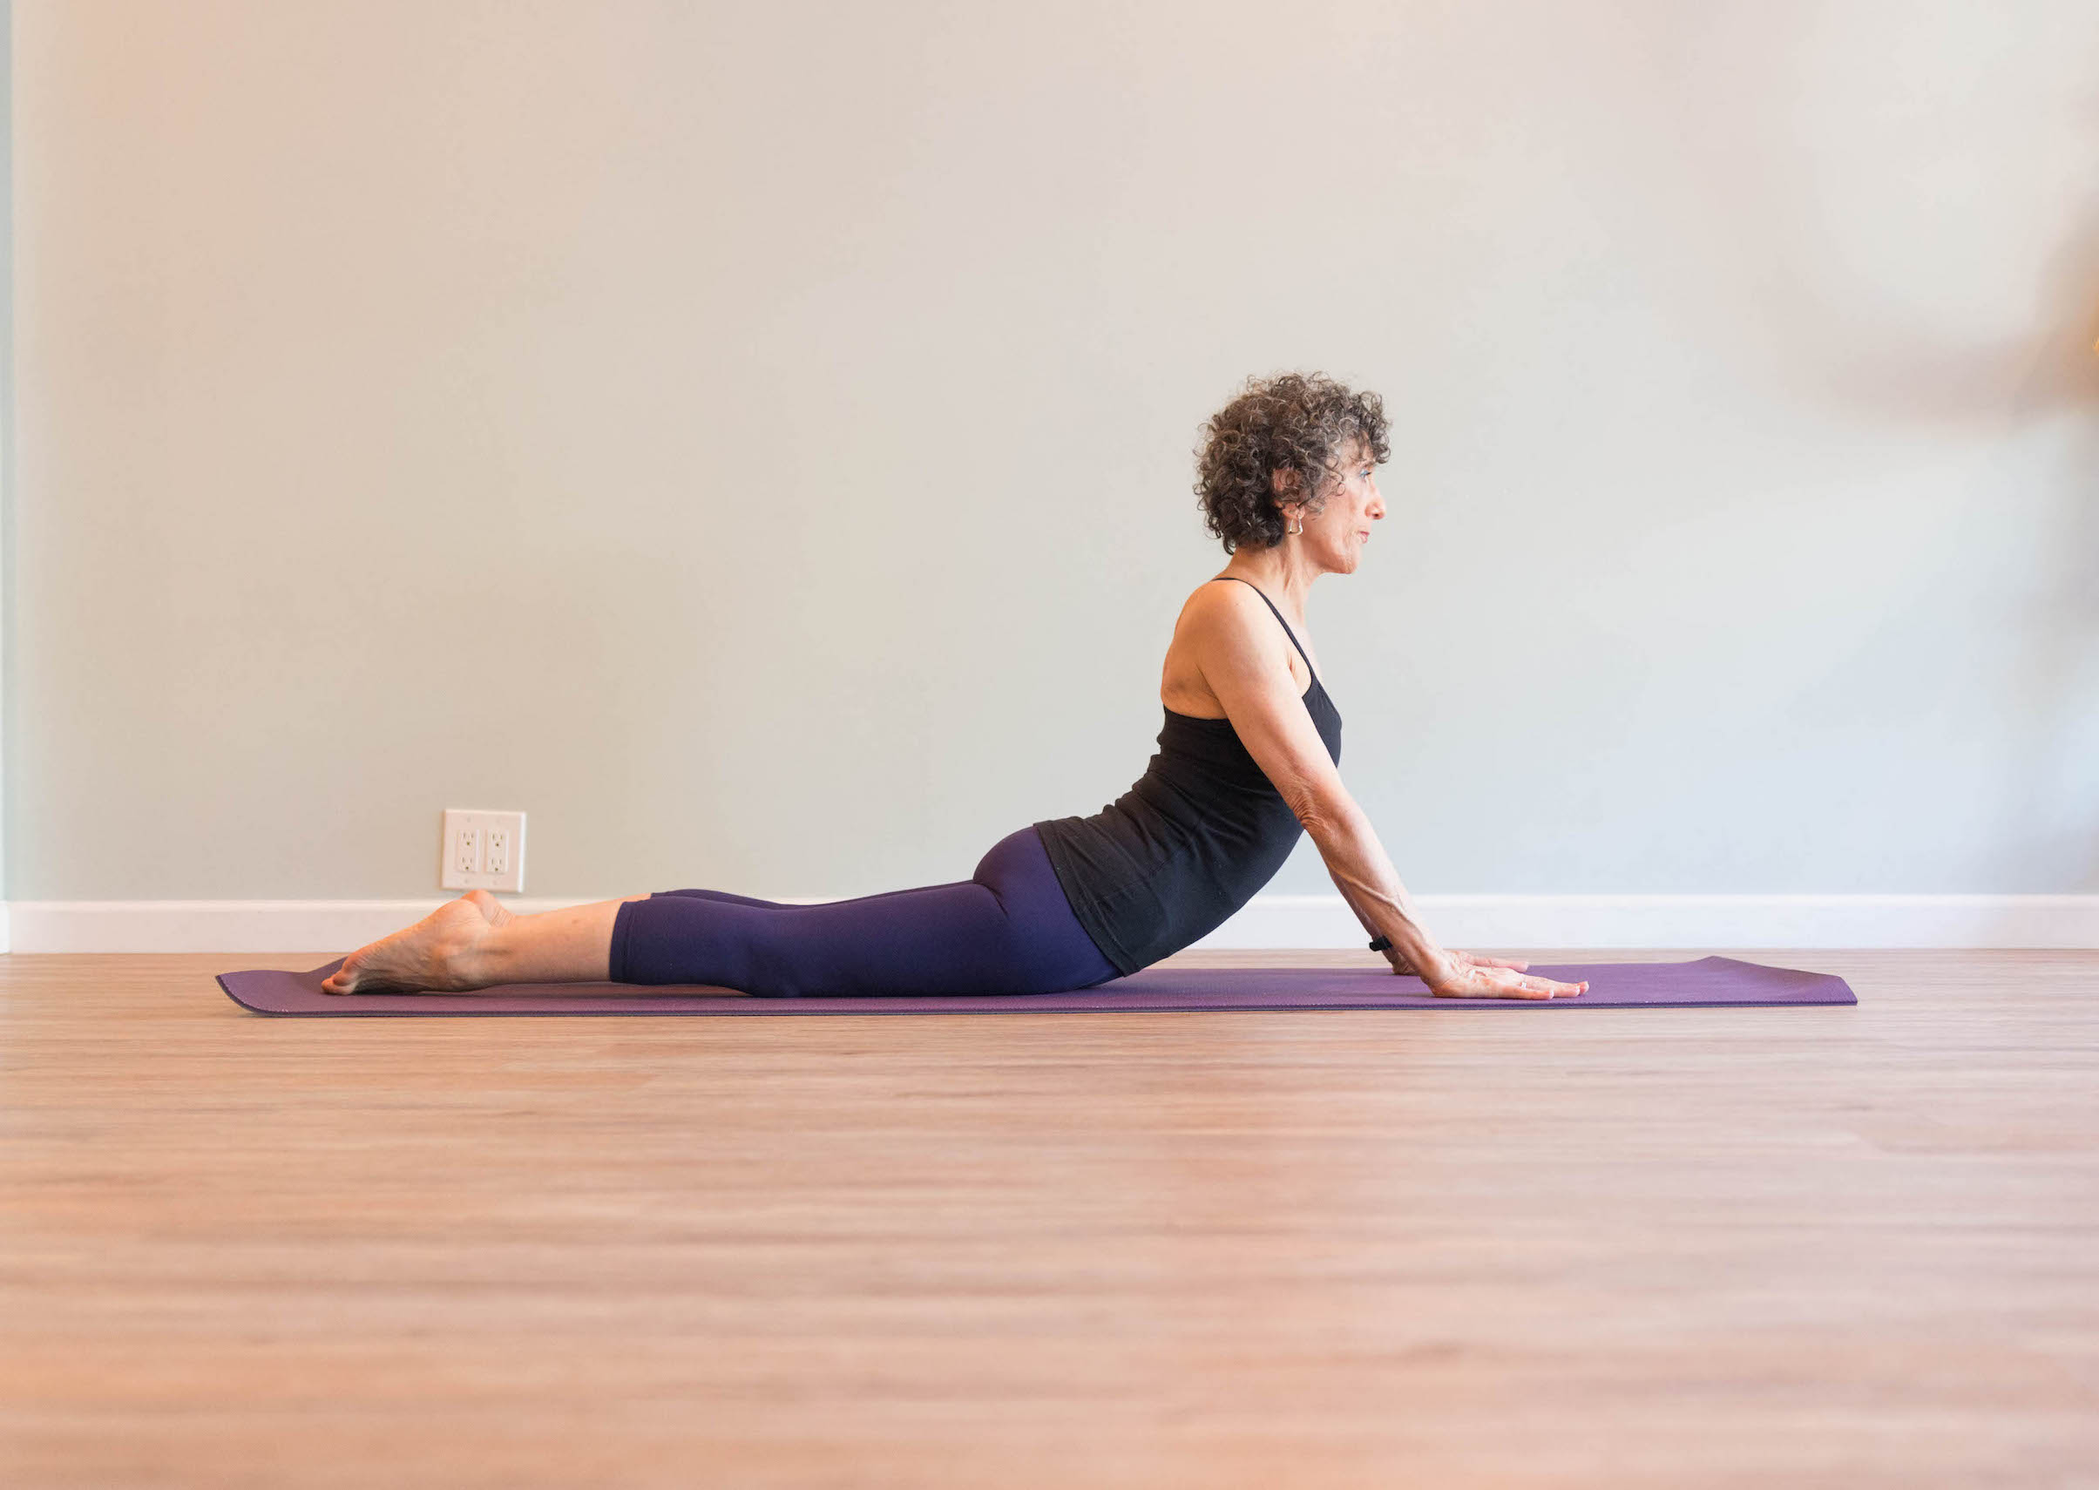
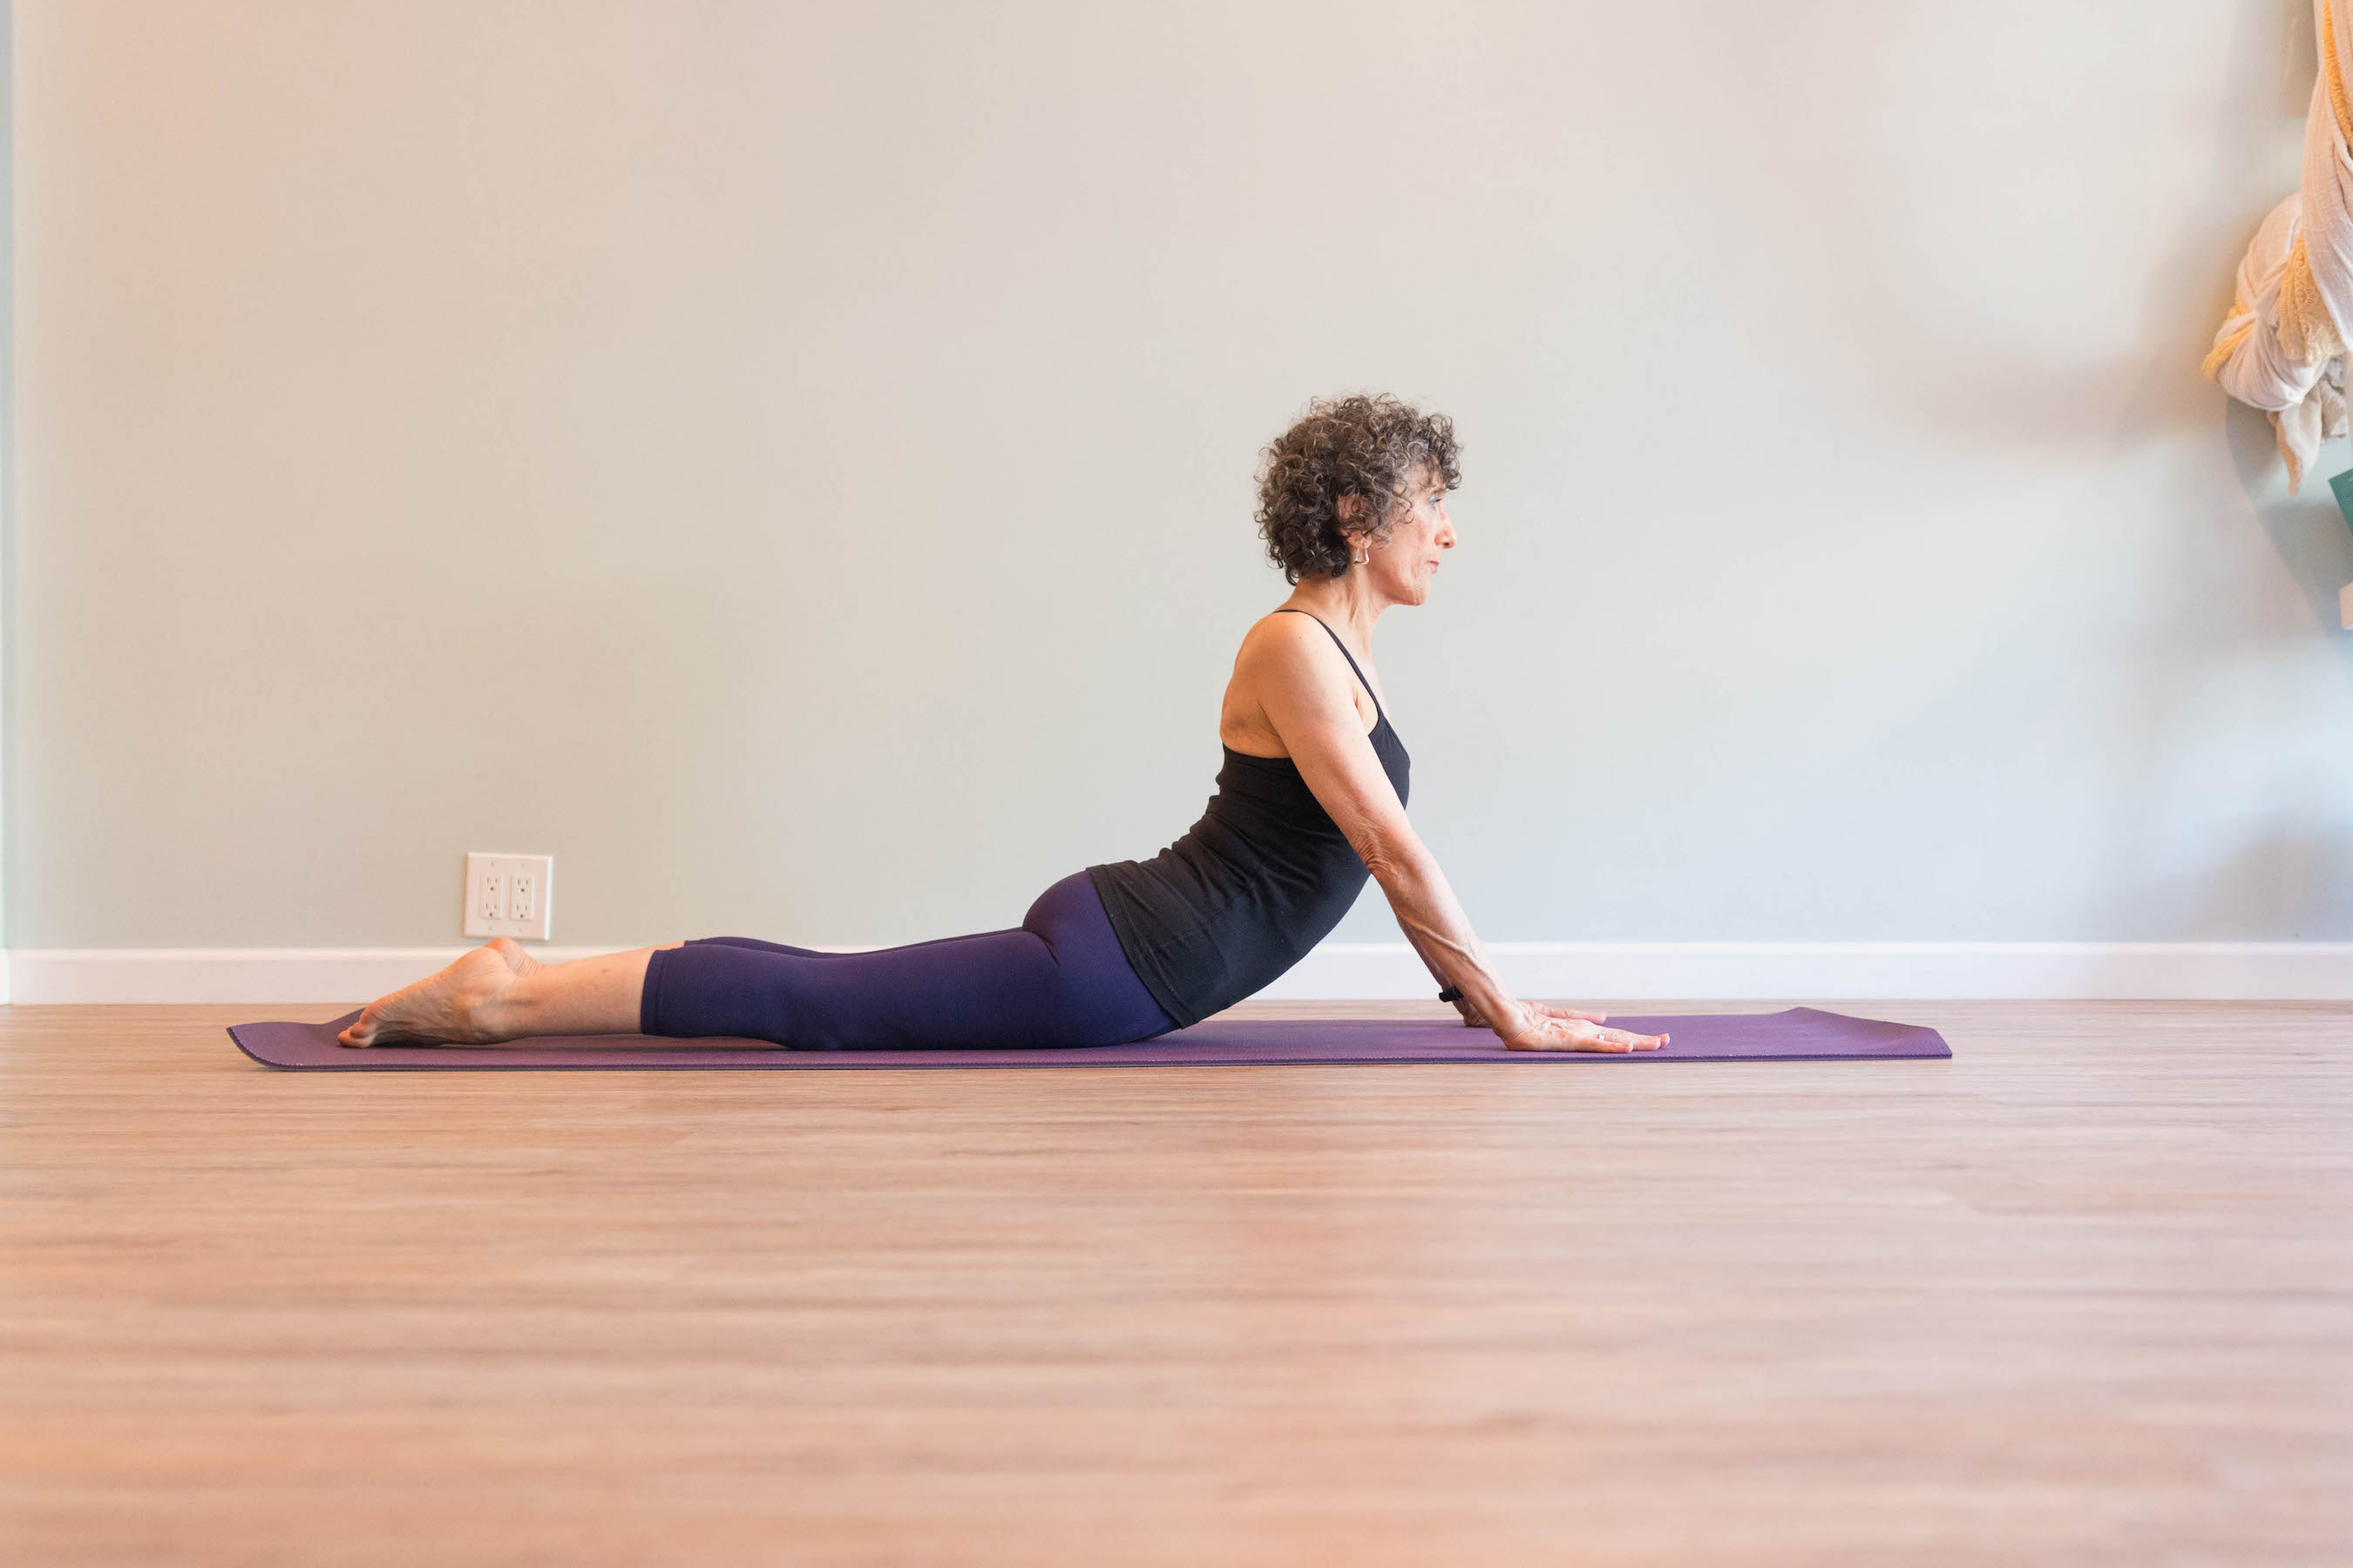
re-loaded images

Changed region(s): [[0.0934, 0.248, 0.9963, 0.7129], [0.9029, 0.0, 1.0, 0.4339], [0.5604, 0.6819, 0.5915, 0.7129]]

diff --git a/index.html b/index.html
@@ -38,8 +38,8 @@ h1, h2, h3, h4, h5, h6 {
   <div id="img1">
     <img class="mySlides w3-animate-fading" src="img/IMG_5685.jpg" alt="yoga pose" width="100%" height="auto">
     <img class="mySlides w3-animate-fading" src="img/IMG_5688.jpg" alt="yoga pose" width="100%" height="auto">
-    <img class="mySlides w3-animate-fading" src="img/IMG_5691.jpg" alt="yoga pose" width="100%" height="auto">
-    <img class="mySlides w3-animate-fading" src="img/IMG_5698.jpg" alt="yoga pose" width="100%" height="auto">
+    <img class="mySlides w3-animate-fading" src="img/IMG_5694.jpg" alt="yoga pose" width="100%" height="auto">
+    <img class="mySlides w3-animate-fading" src="img/IMG_5697.jpg" alt="yoga pose" width="100%" height="auto">
     <img class="mySlides w3-animate-fading" src="img/IMG_5709.jpg" alt="yoga pose" width="100%" height="auto">
     <img class="mySlides w3-animate-fading" src="img/IMG_5718.jpg" alt="yoga pose" width="100%" height="auto">
     <img class="mySlides w3-animate-fading" src="img/IMG_5721.jpg" alt="yoga pose" width="100%" height="auto">
